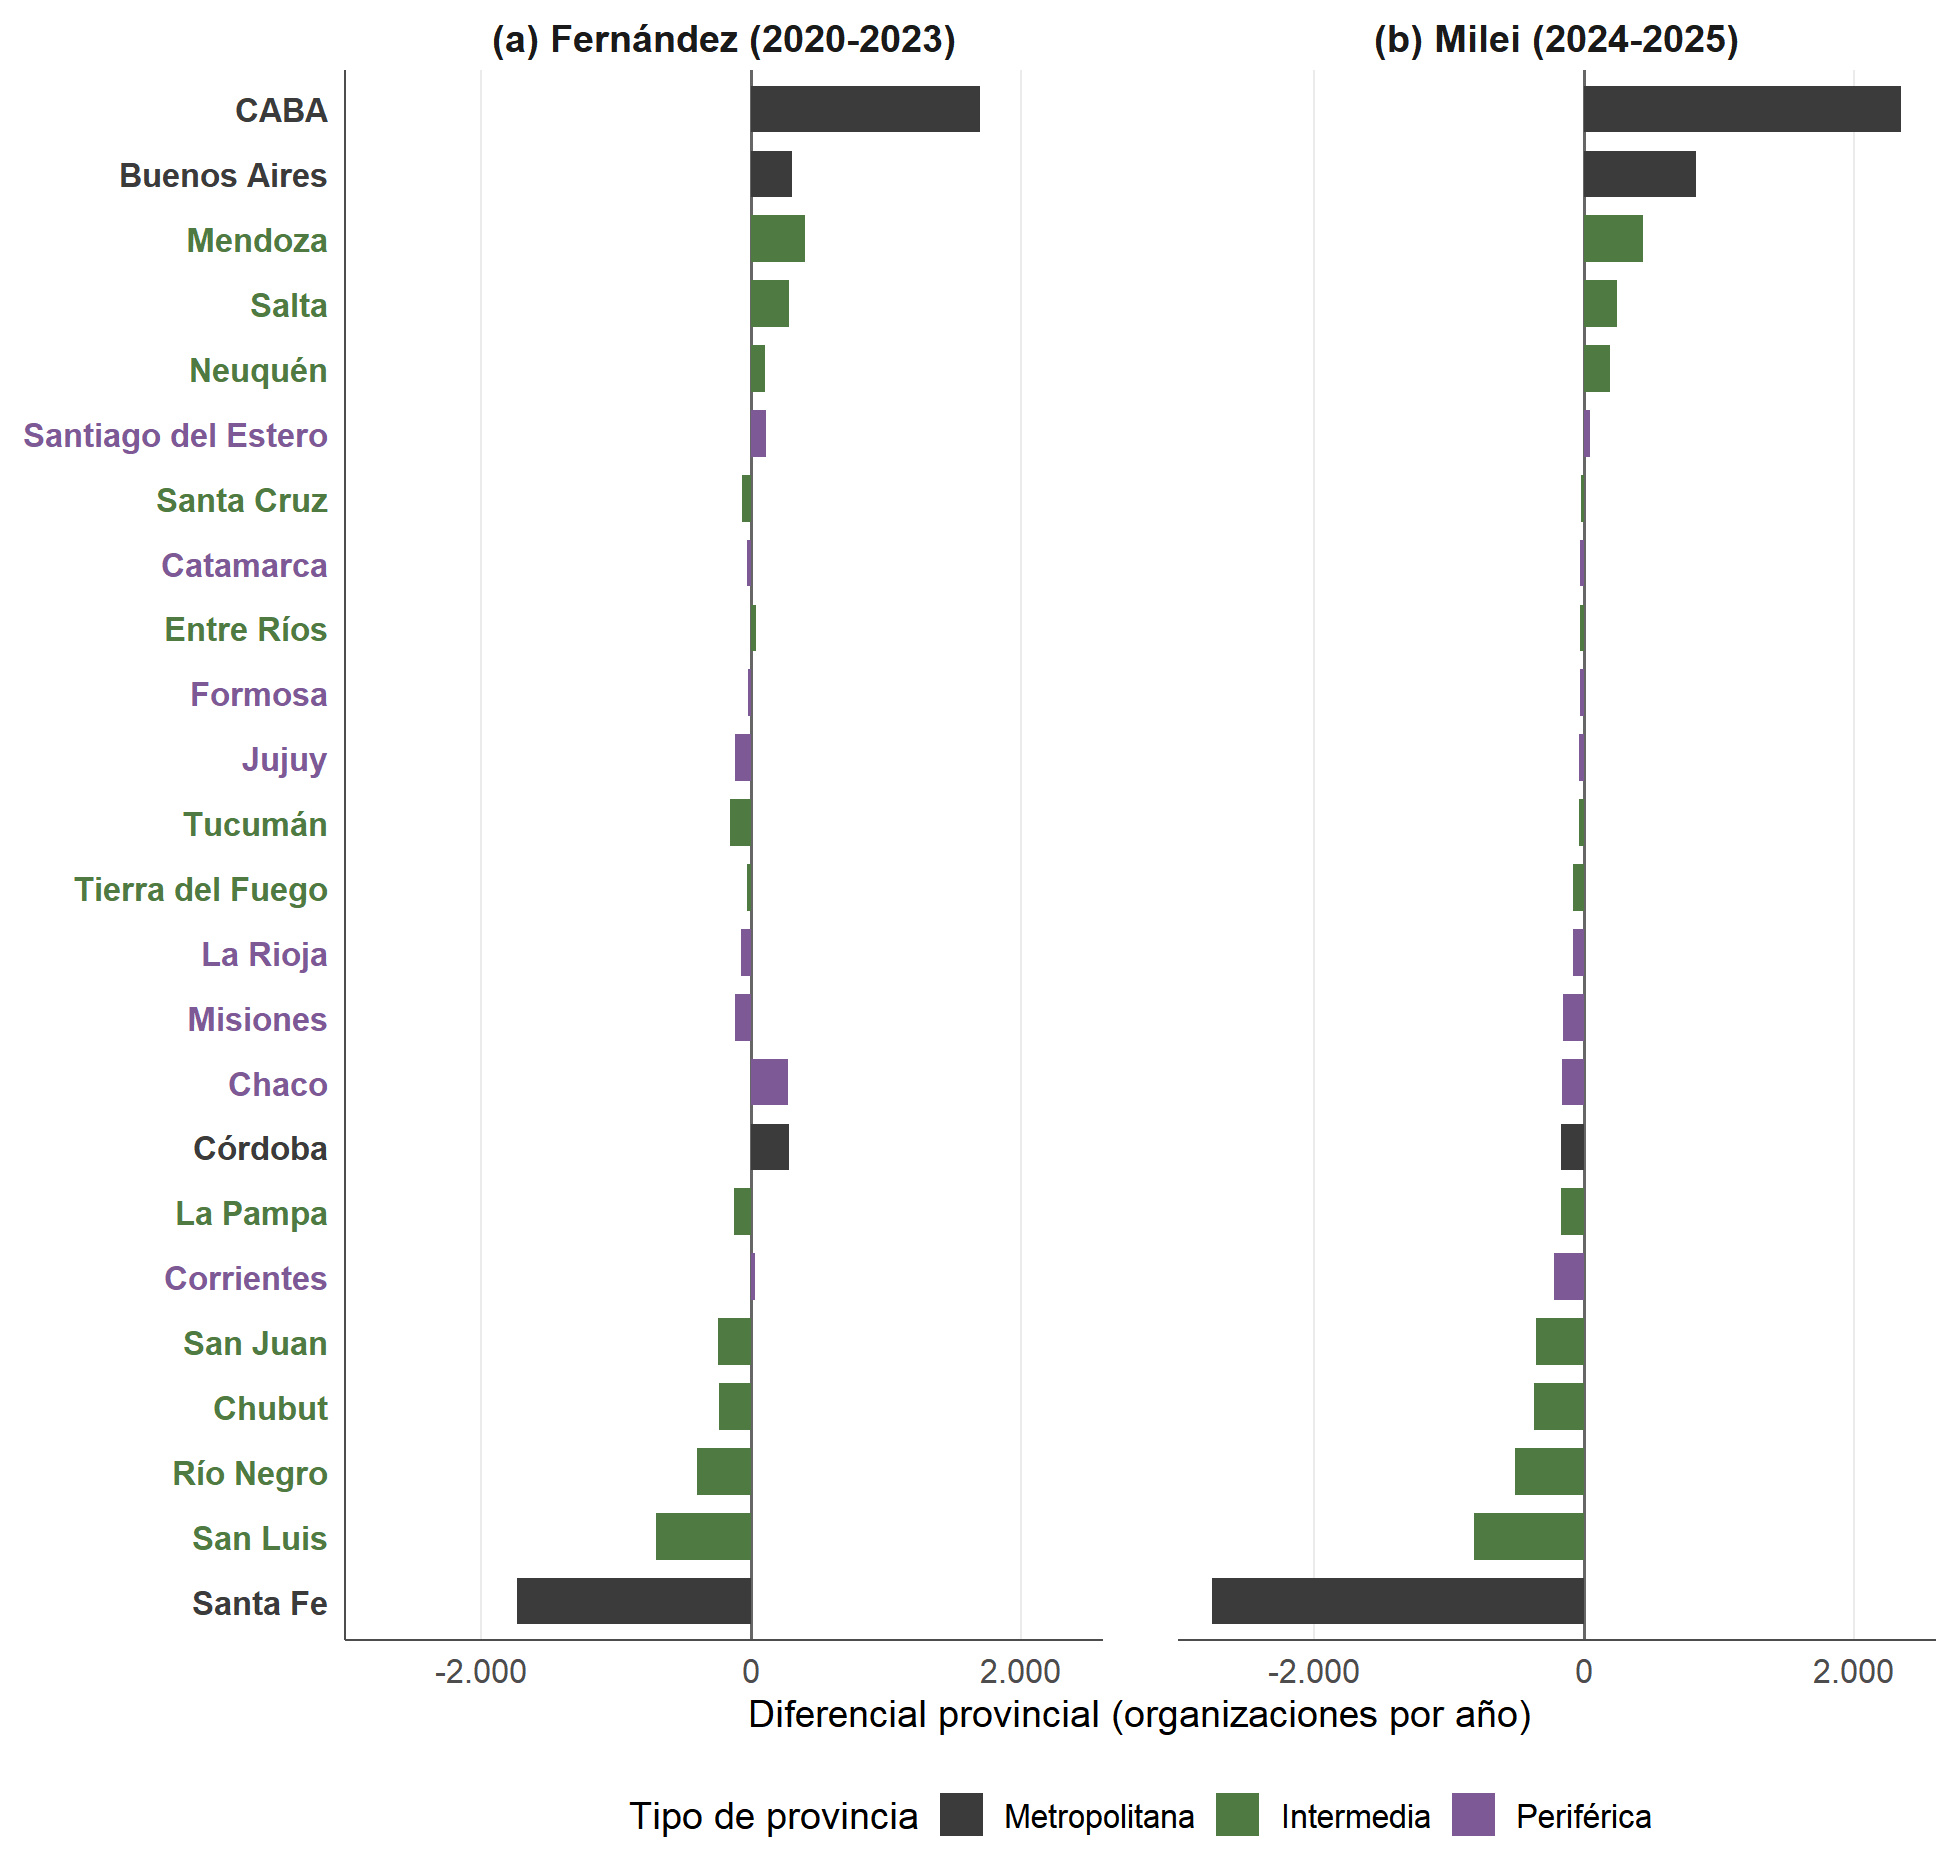
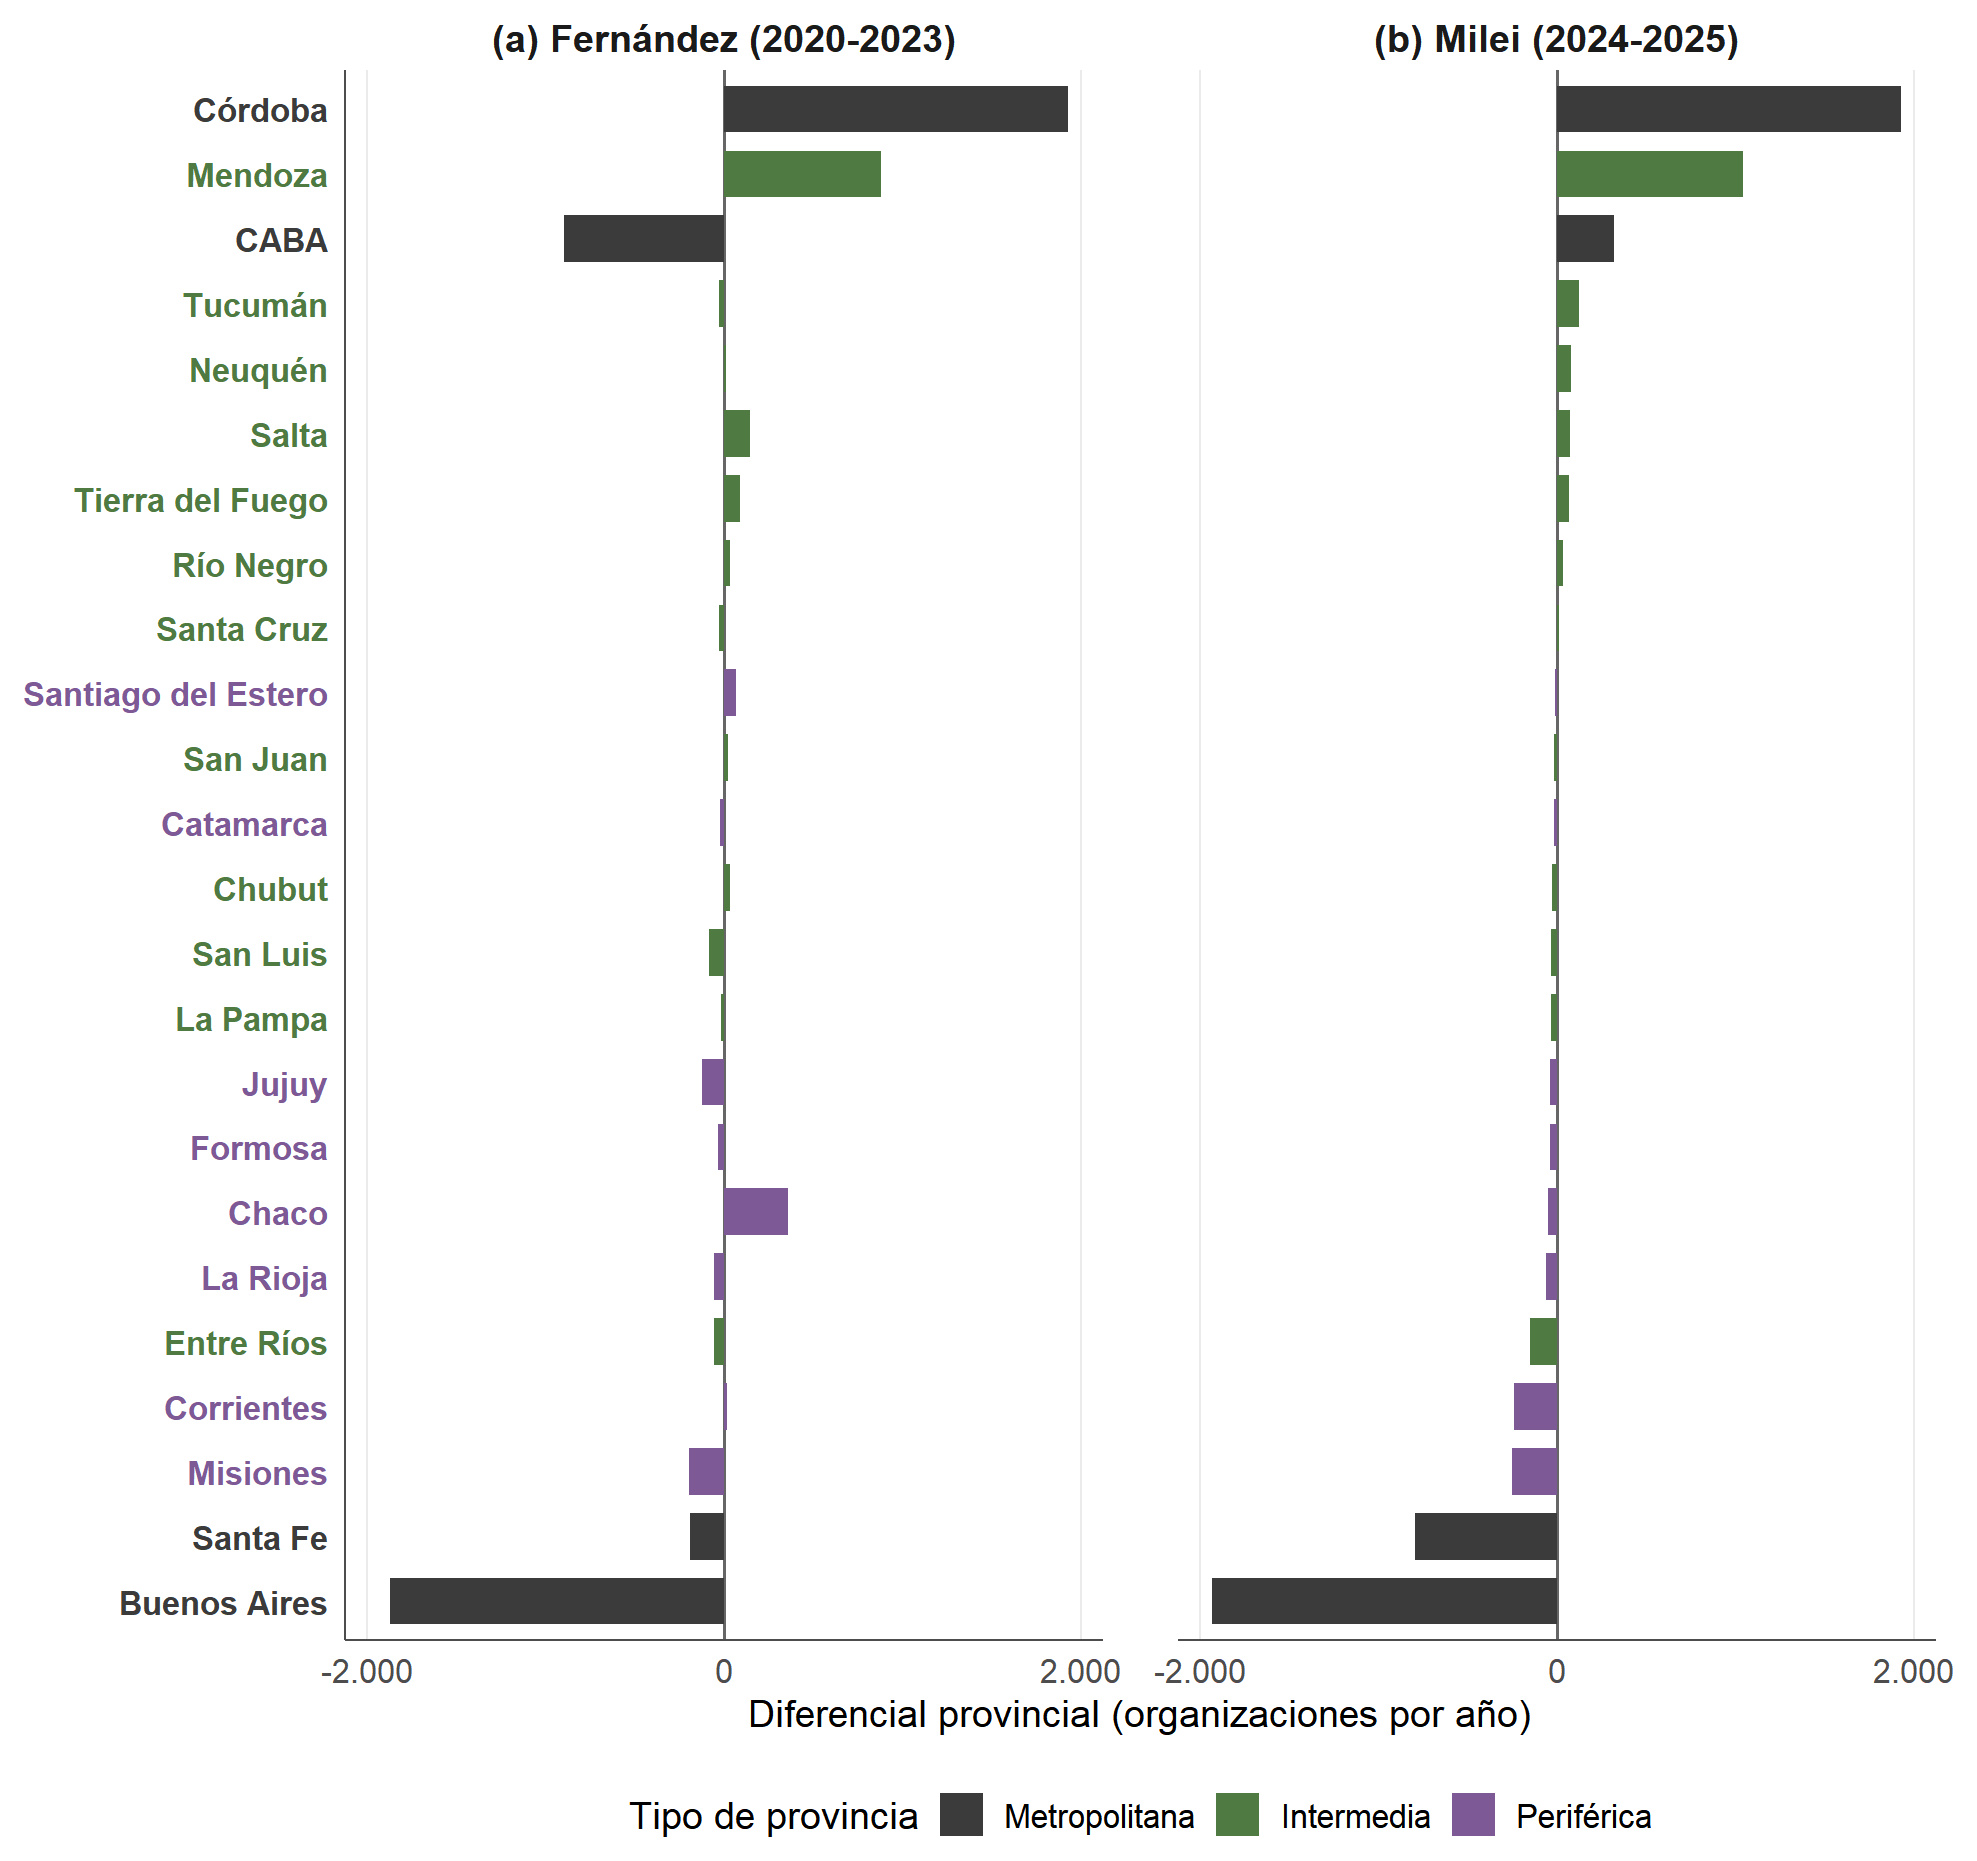
Shift-share with SAS merged into SRL: pre-2017 transformed companies dominated the base

diff --git a/salidas/cuadros/S4.md b/salidas/cuadros/S4.md
@@ -1,26 +1,26 @@
-| Provincia | Tipo | Tasa de referencia | Tasa de comparación | Efecto nacional | Mix estructural | Diferencial provincial | Residuo |
+| Provincia | Tipo | Tasa de referencia | Tasa de comparación | Efecto nacional | Mix estructural | Diferencial provincial | SAS (%) |
 |---|---|---|---|---|---|---|---|
-| Santa Fe | Metropolitana | 1.918,2 | 1.860,0 | +355,9 | +2335,5 | −2749,5 | 0,0 |
-| San Luis | Intermedia | 325,2 | 399,0 | +60,3 | +826,3 | −812,8 | 0,0 |
-| Río Negro | Intermedia | 376,0 | 530,5 | +69,8 | +591,5 | −506,8 | 0,0 |
-| Chubut | Intermedia | 333,1 | 415,5 | +61,8 | +389,9 | −369,3 | 0,0 |
-| San Juan | Intermedia | 315,5 | 408,0 | +58,5 | +389,4 | −355,4 | 0,0 |
-| Corrientes | Periférica | 369,8 | 239,5 | +68,6 | +23,2 | −222,2 | 0,0 |
-| La Pampa | Intermedia | 188,1 | 222,0 | +34,9 | +167,7 | −168,7 | 0,0 |
-| Córdoba | Metropolitana | 2.160,3 | 4.500,5 | +400,8 | +2105,9 | −166,6 | 0,0 |
-| Chaco | Periférica | 426,5 | 350,5 | +79,1 | +3,2 | −158,4 | 0,0 |
-| Misiones | Periférica | 388,5 | 222,5 | +72,1 | −87,4 | −150,6 | 0,0 |
-| La Rioja | Periférica | 144,7 | 97,0 | +26,8 | +8,6 | −83,2 | 0,0 |
-| Tierra del Fuego | Intermedia | 136,8 | 245,5 | +25,4 | +166,4 | −83,0 | 0,0 |
-| Tucumán | Intermedia | 582,7 | 830,0 | +108,1 | +176,8 | −37,6 | 0,0 |
-| Jujuy | Periférica | 256,4 | 213,0 | +47,6 | −56,9 | −34,1 | 0,0 |
-| Formosa | Periférica | 143,8 | 122,5 | +26,7 | −64,3 | −30,8 | 47,0 |
-| Entre Ríos | Intermedia | 472,3 | 414,0 | +87,6 | −116,8 | −29,1 | 0,0 |
-| Catamarca | Periférica | 127,6 | 140,0 | +23,7 | +15,9 | −27,2 | 0,0 |
-| Santa Cruz | Intermedia | 165,1 | 187,0 | +30,6 | −78,6 | −18,6 | 88,5 |
-| Santiago del Estero | Periférica | 303,4 | 350,0 | +56,3 | −53,8 | +44,1 | 0,0 |
-| Neuquén | Intermedia | 342,3 | 549,0 | +63,5 | −52,8 | +196,0 | 0,0 |
-| Salta | Intermedia | 495,2 | 728,0 | +91,9 | −108,7 | +249,6 | 0,0 |
-| Mendoza | Intermedia | 1.349,9 | 2.083,0 | +250,5 | +44,9 | +437,7 | 0,0 |
-| Buenos Aires | Metropolitana | 7.757,2 | 6.966,5 | +1439,2 | −3057,4 | +827,5 | 0,0 |
-| CABA | Metropolitana | 8.487,4 | 10.607,0 | +1574,7 | −3568,7 | +2351,6 | 1.762,0 |
+| Buenos Aires | Metropolitana | 7.757,2 | 6.966,5 | +1439,2 | −301,1 | −1928,8 | 5,1 |
+| Santa Fe | Metropolitana | 1.918,2 | 1.860,0 | +355,9 | +379,4 | −793,5 | 22,1 |
+| Misiones | Periférica | 388,5 | 222,5 | +72,1 | +12,9 | −251,0 | 43,8 |
+| Corrientes | Periférica | 369,8 | 239,5 | +68,6 | +42,0 | −240,9 | 41,1 |
+| Entre Ríos | Intermedia | 472,3 | 414,0 | +87,6 | +2,2 | −148,1 | 26,7 |
+| La Rioja | Periférica | 144,7 | 97,0 | +26,8 | −14,8 | −59,7 | 34,0 |
+| Chaco | Periférica | 426,5 | 350,5 | +79,1 | −105,0 | −50,2 | 56,2 |
+| Formosa | Periférica | 143,8 | 122,5 | +26,7 | −7,6 | −40,4 | 38,4 |
+| Jujuy | Periférica | 256,4 | 213,0 | +47,6 | −51,4 | −39,6 | 42,0 |
+| La Pampa | Intermedia | 188,1 | 222,0 | +34,9 | +32,3 | −33,3 | 41,9 |
+| San Luis | Intermedia | 325,2 | 399,0 | +60,3 | +43,8 | −30,3 | 66,9 |
+| Chubut | Intermedia | 333,1 | 415,5 | +61,8 | +50,3 | −29,7 | 45,7 |
+| Catamarca | Periférica | 127,6 | 140,0 | +23,7 | +4,4 | −15,7 | 53,2 |
+| San Juan | Intermedia | 315,5 | 408,0 | +58,5 | +49,4 | −15,5 | 79,5 |
+| Santiago del Estero | Periférica | 303,4 | 350,0 | +56,3 | −1,0 | −8,7 | 35,3 |
+| Santa Cruz | Intermedia | 165,1 | 187,0 | +30,6 | −21,6 | +12,9 | 47,3 |
+| Río Negro | Intermedia | 376,0 | 530,5 | +69,8 | +49,8 | +35,0 | 71,9 |
+| Tierra del Fuego | Intermedia | 136,8 | 245,5 | +25,4 | +14,8 | +68,6 | 76,0 |
+| Salta | Intermedia | 495,2 | 728,0 | +91,9 | +65,4 | +75,5 | 59,6 |
+| Neuquén | Intermedia | 342,3 | 549,0 | +63,5 | +63,8 | +79,4 | 60,6 |
+| Tucumán | Intermedia | 582,7 | 830,0 | +108,1 | +13,7 | +125,5 | 70,0 |
+| CABA | Metropolitana | 8.487,4 | 10.607,0 | +1574,7 | +225,0 | +319,9 | 16,6 |
+| Mendoza | Intermedia | 1.349,9 | 2.083,0 | +250,5 | −560,2 | +1042,8 | 83,4 |
+| Córdoba | Metropolitana | 2.160,3 | 4.500,5 | +400,8 | +13,5 | +1925,9 | 76,0 |

diff --git a/salidas/cuadros/S4b.md b/salidas/cuadros/S4b.md
@@ -1,26 +1,26 @@
-| Provincia | Tipo | Tasa de referencia | Tasa de comparación | Efecto nacional | Mix estructural | Diferencial provincial | Residuo |
+| Provincia | Tipo | Tasa de referencia | Tasa de comparación | Efecto nacional | Mix estructural | Diferencial provincial | SAS (%) |
 |---|---|---|---|---|---|---|---|
-| Santa Fe | Metropolitana | 1.918,2 | 2.491,0 | +544,5 | +1759,6 | −1731,2 | 0,0 |
-| San Luis | Intermedia | 325,2 | 375,8 | +92,3 | +657,2 | −699,0 | 0,0 |
-| Río Negro | Intermedia | 376,0 | 577,2 | +106,7 | +489,5 | −394,9 | 0,0 |
-| San Juan | Intermedia | 315,5 | 477,8 | +89,6 | +318,5 | −245,9 | 0,0 |
-| Chubut | Intermedia | 333,1 | 506,5 | +94,5 | +312,4 | −233,5 | 0,0 |
-| Tucumán | Intermedia | 582,7 | 866,2 | +165,4 | +274,9 | −156,8 | 0,0 |
-| La Pampa | Intermedia | 188,1 | 257,0 | +53,4 | +136,6 | −121,0 | 0,0 |
-| Jujuy | Periférica | 256,4 | 269,2 | +72,8 | +60,3 | −120,2 | 0,0 |
-| Misiones | Periférica | 388,5 | 366,8 | +110,3 | −16,8 | −115,2 | 0,0 |
-| La Rioja | Periférica | 144,7 | 149,5 | +41,1 | +34,8 | −71,1 | 0,0 |
-| Santa Cruz | Intermedia | 165,1 | 192,8 | +46,9 | −38,6 | −62,8 | 82,2 |
-| Tierra del Fuego | Intermedia | 136,8 | 275,8 | +38,8 | +129,9 | −29,8 | 0,0 |
-| Catamarca | Periférica | 127,6 | 171,0 | +36,2 | +35,5 | −28,3 | 0,0 |
-| Formosa | Periférica | 143,8 | 169,2 | +40,8 | −24,8 | −17,4 | 26,8 |
-| Corrientes | Periférica | 369,8 | 555,0 | +105,0 | +48,7 | +31,5 | 0,0 |
-| Entre Ríos | Intermedia | 472,3 | 597,2 | +134,1 | −45,4 | +36,3 | 0,0 |
-| Neuquén | Intermedia | 342,3 | 498,5 | +97,2 | −42,2 | +101,3 | 0,0 |
-| Santiago del Estero | Periférica | 303,4 | 495,2 | +86,1 | −5,8 | +111,5 | 0,0 |
-| Chaco | Periférica | 426,5 | 950,2 | +121,1 | +127,3 | +275,3 | 0,0 |
-| Córdoba | Metropolitana | 2.160,3 | 4.652,0 | +613,2 | +1598,8 | +279,7 | 0,0 |
-| Salta | Intermedia | 495,2 | 902,8 | +140,6 | −15,7 | +282,7 | 0,0 |
-| Buenos Aires | Metropolitana | 7.757,2 | 8.082,8 | +2201,9 | −2179,7 | +303,4 | 0,0 |
-| Mendoza | Intermedia | 1.349,9 | 2.145,8 | +383,2 | +11,2 | +401,4 | 0,0 |
-| CABA | Metropolitana | 8.487,4 | 9.365,5 | +2409,2 | −3626,2 | +1697,6 | 397,5 |
+| Buenos Aires | Metropolitana | 7.757,2 | 8.082,8 | +2201,9 | −6,5 | −1869,8 | 8,0 |
+| CABA | Metropolitana | 8.487,4 | 9.365,5 | +2409,2 | −635,2 | −895,9 | 4,2 |
+| Misiones | Periférica | 388,5 | 366,8 | +110,3 | +62,3 | −194,3 | 19,6 |
+| Santa Fe | Metropolitana | 1.918,2 | 2.491,0 | +544,5 | +217,4 | −189,0 | 13,5 |
+| Jujuy | Periférica | 256,4 | 269,2 | +72,8 | +64,6 | −124,5 | 18,1 |
+| San Luis | Intermedia | 325,2 | 375,8 | +92,3 | +40,3 | −82,1 | 46,5 |
+| Entre Ríos | Intermedia | 472,3 | 597,2 | +134,1 | +48,4 | −57,6 | 21,7 |
+| La Rioja | Periférica | 144,7 | 149,5 | +41,1 | +16,3 | −52,6 | 8,0 |
+| Formosa | Periférica | 143,8 | 169,2 | +40,8 | +19,9 | −35,3 | 15,8 |
+| Tucumán | Intermedia | 582,7 | 866,2 | +165,4 | +146,3 | −28,2 | 44,0 |
+| Santa Cruz | Intermedia | 165,1 | 192,8 | +46,9 | +6,3 | −25,5 | 42,7 |
+| Catamarca | Periférica | 127,6 | 171,0 | +36,2 | +26,4 | −19,3 | 16,5 |
+| La Pampa | Intermedia | 188,1 | 257,0 | +53,4 | +29,8 | −14,3 | 31,7 |
+| Neuquén | Intermedia | 342,3 | 498,5 | +97,2 | +49,7 | +9,3 | 44,4 |
+| Corrientes | Periférica | 369,8 | 555,0 | +105,0 | +63,5 | +16,6 | 50,9 |
+| San Juan | Intermedia | 315,5 | 477,8 | +89,6 | +50,5 | +22,2 | 58,9 |
+| Río Negro | Intermedia | 376,0 | 577,2 | +106,7 | +62,4 | +32,2 | 55,0 |
+| Chubut | Intermedia | 333,1 | 506,5 | +94,5 | +44,6 | +34,2 | 27,5 |
+| Santiago del Estero | Periférica | 303,4 | 495,2 | +86,1 | +35,9 | +69,9 | 16,9 |
+| Tierra del Fuego | Intermedia | 136,8 | 275,8 | +38,8 | +10,4 | +89,8 | 54,8 |
+| Salta | Intermedia | 495,2 | 902,8 | +140,6 | +121,5 | +145,4 | 43,8 |
+| Chaco | Periférica | 426,5 | 950,2 | +121,1 | +42,0 | +360,7 | 20,7 |
+| Mendoza | Intermedia | 1.349,9 | 2.145,8 | +383,2 | −465,9 | +878,5 | 66,0 |
+| Córdoba | Metropolitana | 2.160,3 | 4.652,0 | +613,2 | −51,0 | +1929,5 | 66,9 |

diff --git a/README.md b/README.md
@@ -83,7 +83,7 @@ Step 0 builds the dataset in Python. Steps 1 to 6 run the analysis in R.
 | 0 | `scripts/00_build_national_dataset.py` | Clean, deduplicate and classify 3M records | `data/national_orgs_clean.parquet` |
 | 1 | `R/01_acm.R` | Correspondence analysis of the 8 × 21 legal form by activity table; supplementary projection of era, fiscal status, jurisdiction type and the 24 jurisdictions; subcloud analysis with concentration ellipses | Eigenvalues, category coordinates, supplementary barycentres, subclouds |
 | 2 | `R/02_theil.R` | Theil decomposition across eight political eras; Shannon *H* by jurisdiction with bootstrap intervals; annual series | Theil tables, Shannon by jurisdiction, annual series |
-| 3 | `R/03_shift_share.R` | Shift-share: Kirchnerism against Fernández and against Milei | Provincial differentials for two comparison periods |
+| 3 | `R/03_shift_share.R` | Shift-share: Kirchnerism against Fernández and against Milei, with SAS and SRL merged into one closed-company category (157 SAS in the reference cohort carry pre-2017 constitution dates from transformed companies; taken as a base they gave the form a national growth factor of ×947 and dominated the structural mix) | Provincial differentials for two comparison periods |
 | 4 | `R/04_bloques_falsacion.R` | Association-threshold blocks, right-censoring control, SAS diffusion by jurisdiction, institutional-density test (population aged 14 and over from `data/contexto_provincial.csv`), data for Figures 3 and S1 | Block series, SAS by jurisdiction, correlations with intervals, `composicion_milei_provincia.csv`, `contexto_diversidad.csv` |
 | 5 | `R/05_cuadros.R` | Supplementary tables | `salidas/cuadros/*.md` |
 | 6 | `R/06_figuras.R` | Seven figures at 300 dpi, read only from `salidas/` and `data/argentina_provinces.geojson` | `figures/*.jpg` |
